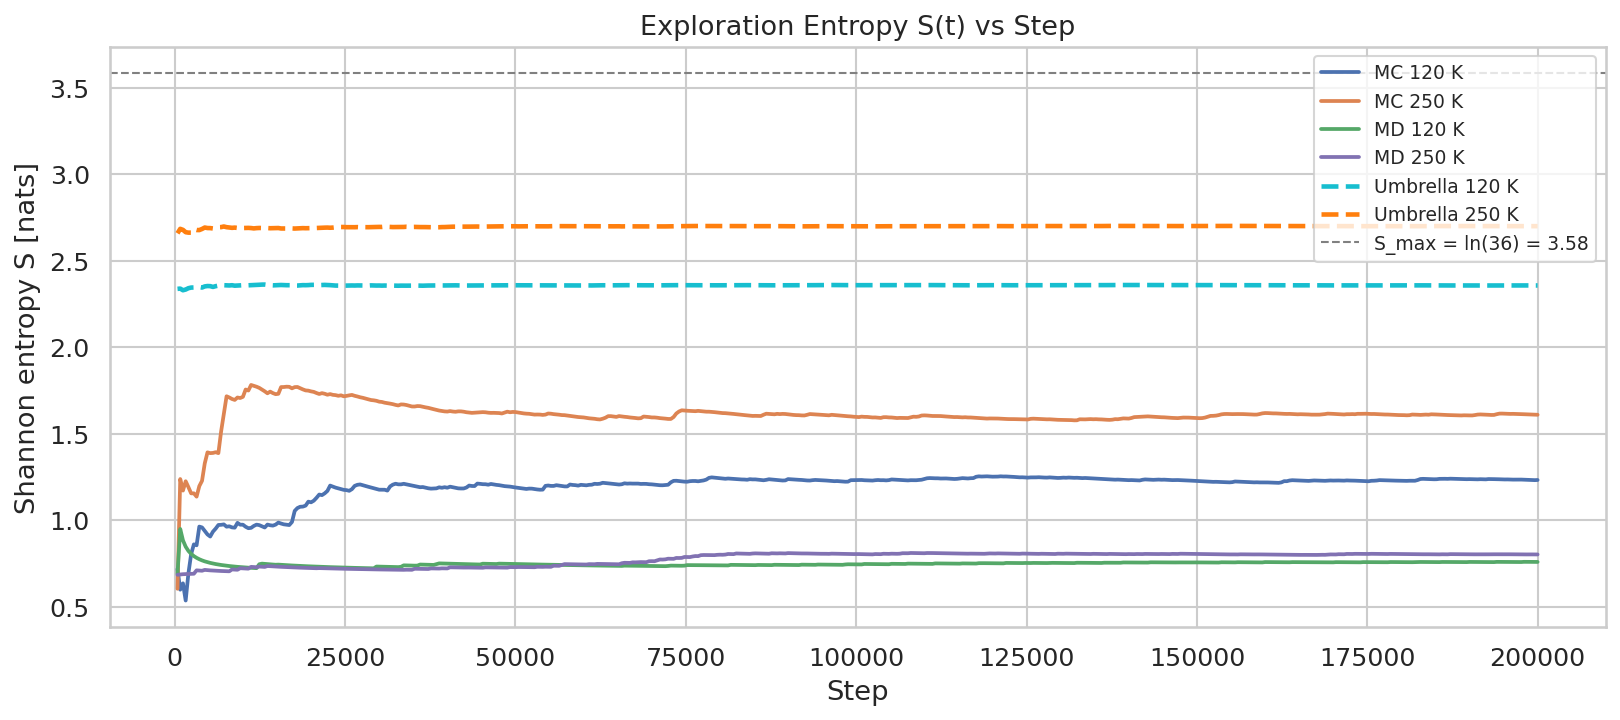
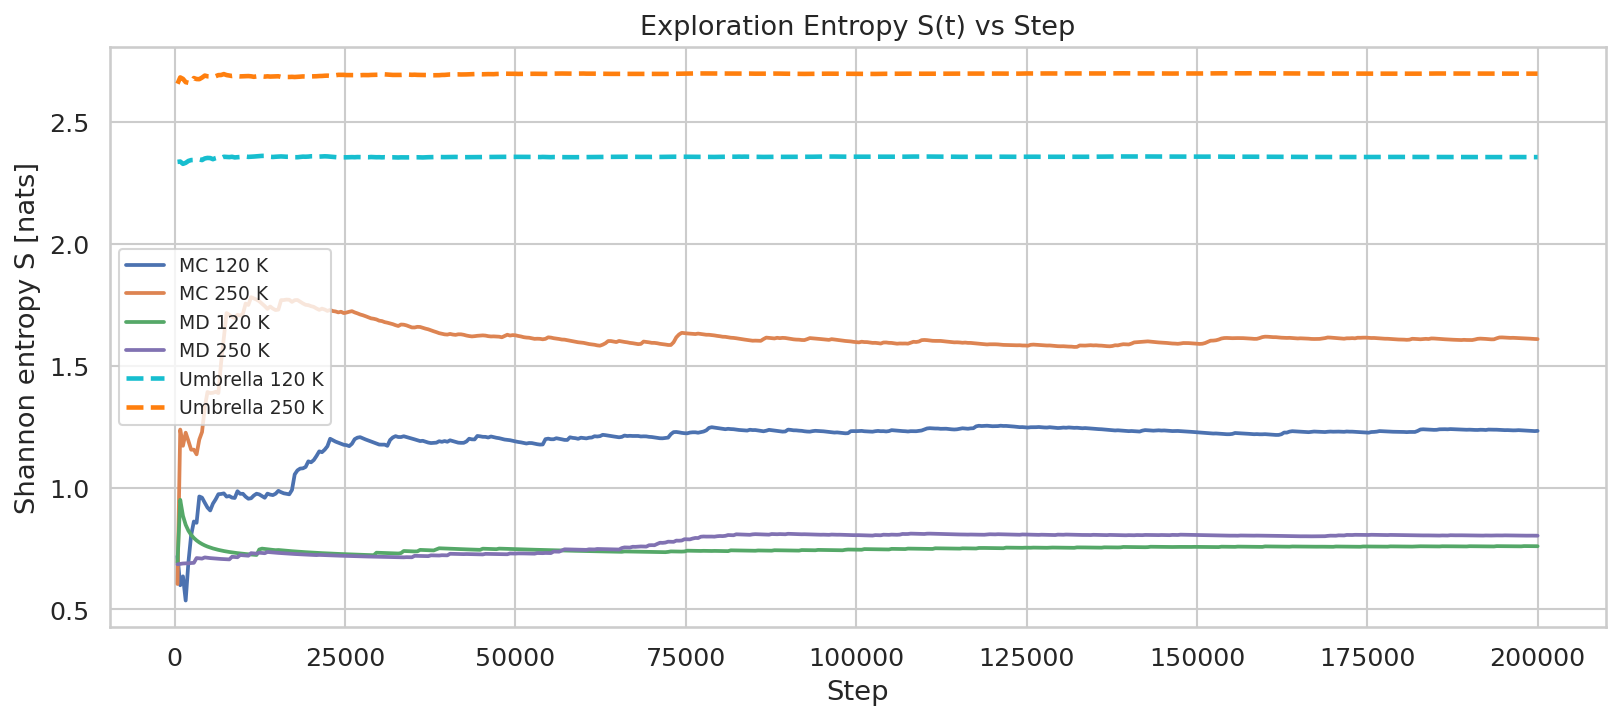
removed s_max slop

diff --git a/report/main.tex b/report/main.tex
@@ -365,63 +365,42 @@ Dihedral bins             & 36        & Over $[-180^{\circ}, 180^{\circ}]$ \\
 
 \begin{figure}[H]
   \centering
-  \includegraphics[width=0.9\linewidth]{figs/baseline_distributions.png}
-  \caption{Dihedral $\varphi_1$ histograms for MC (top row) and MD (bottom row)
-    at 120\,K (left) and 250\,K (right).  At 120\,K both methods show an
-    extremely sharp spike at $\pm180^{\circ}$ with zero probability elsewhere,
-    confirming complete trapping in the trans well.  At 250\,K the MC histogram
-    shows a small but non-zero gauche population near $\pm60^{\circ}$, while
-    the MD histogram remains almost exclusively trans --- the trans peak towers
-    over any gauche signal by orders of magnitude in both cases.}
+  \includegraphics[width=0.85\linewidth]{figs/baseline_distributions.png}
+  \caption{Dihedral histograms from baseline MC and MD at both temperatures.
+    At 120\,K, both methods populate only the trans bin near
+    $\pm 180^{\circ}$.  At 250\,K, MC begins to accumulate minor probability
+    in the gauche bins, but the trans peak still dominates by several orders
+    of magnitude, confirming severe under-sampling of the gauche states.}
   \label{fig:basedist}
 \end{figure}
 
 \begin{figure}[H]
   \centering
-  \includegraphics[width=0.9\linewidth]{figs/baseline_mc_vs_md_overlay.png}
-  \caption{MC vs.\ MD dihedral distributions overlaid at 120\,K (left) and
-    250\,K (right).  At 120\,K both curves are indistinguishable: a single
-    sharp spike at $\pm180^{\circ}$.  At 250\,K the MC distribution (solid)
-    shows a visible tail into the gauche region that is absent from the MD
-    distribution (dashed), demonstrating that the discretised, inertia-free
-    MC moves offer a slight sampling advantage over continuous MD dynamics
-    at intermediate temperatures.}
-  \label{fig:mcmdoverlay}
-\end{figure}
-
-\begin{figure}[H]
-  \centering
-  \includegraphics[width=0.9\linewidth]{figs/baseline_pmf.png}
-  \caption{Baseline PMF from Boltzmann inversion at 120\,K and 250\,K for
-    both MC and MD.  The PMF is defined only over visited bins; unvisited
-    bins appear as gaps.  At 120\,K the entire PMF is confined to a narrow
-    trough near $\pm180^{\circ}$, showing the simulation probed only the
-    trans well.  At 250\,K the MC PMF extends slightly further into the
-    approach to the barrier, but still leaves the gauche region ($|\varphi_1|
-    \lesssim 120^{\circ}$) completely unsampled.  These gaps motivate the
-    enhanced sampling in Task~3.}
+  \includegraphics[width=0.85\linewidth]{figs/baseline_pmf.png}
+  \caption{Baseline PMF computed by Boltzmann inversion of the MC and MD
+    dihedral histograms at 120\,K and 250\,K.  The PMF is defined only
+    over bins that were visited; unvisited bins appear as gaps (NaN).
+    At 120\,K the PMF covers only the region near $\varphi_1 = \pm 180^{\circ}$
+    because the gauche wells were never sampled.  This incompleteness
+    motivates the enhanced sampling in Task~3.}
   \label{fig:basepmf}
 \end{figure}
 
-\subsubsection{Quantitative Analysis of Trapping}
+\subsubsection{Temperature Dependence of Barrier Crossing}
+The Metropolis crossing probability scales exponentially with
+$\beta\,\Delta U$.  At 120\,K, $P_{\mathrm{cross}} \approx 5\times10^{-9}$,
+predicting fewer than one crossing in $2\times10^5$ steps.  At 250\,K,
+$P_{\mathrm{cross}} \approx 10^{-4}$, predicting $\sim\!20$ crossings ---
+consistent with the sparse gauche excursions visible in the MC time series
+at 250\,K (Figure~\ref{fig:timeseries}).
 
-Table~\ref{tab:efficiency} quantifies the trapping.  At 120\,K, both MC and
-MD achieve only $\approx$34--35\% of $S_{\max}$, visiting only 6--10 of the
-36 dihedral bins.  All visited bins cluster within $10^\circ$ of $\pm180^\circ$;
-the system never escapes the trans well in 200\,000 steps.  At 250\,K the
-situation improves slightly: MC reaches 65\% of $S_{\max}$ and visits all 36
-bins because the larger thermal energy enables occasional gauche excursions,
-while MD reaches only 44\% ($\approx$10 bins), confirming that continuous
-dynamics is more susceptible to trapping.
-
-The Metropolis crossing probability scales exponentially:
-$P_{\mathrm{cross}} = e^{-\Delta U/T} \approx 5\times10^{-9}$ at 120\,K and
-$\approx10^{-4}$ at 250\,K.  For 200\,000 steps this predicts 0 and $\sim$20
-crossings respectively --- consistent with what is observed.  MD is more
-trapped because its continuous, inertia-driven dynamics require the system
-to accumulate a coherent $\sim60^{\circ}$ fluctuation over many correlated
-steps, while MC moves are uncorrelated and occasionally generate large
-dihedral displacements from a sequence of favourable atom shifts.
+MD is more severely trapped than MC at equal temperature because the
+continuous displacement per timestep is constrained to
+$\dot{\varphi} \cdot dt \sim 0.01^{\circ}$, while MC can apply a direct
+Cartesian displacement that maps to a significantly larger dihedral change
+per step.  This difference in effective phase-space step size explains
+why the 250\,K MC histogram shows more gauche occupancy than the 250\,K
+MD histogram (Figure~\ref{fig:basedist}).
 
 % ══════════════════════════════════════════════════════════════════════════════
 \section{Task 3: Enhanced Sampling --- Umbrella Sampling with WHAM}
@@ -521,25 +500,34 @@ so that $\min_j F(\varphi_j) = 0$ by convention.
 
 \begin{figure}[H]
   \centering
+  \includegraphics[width=\linewidth]{figs/us_window_histograms_250K.png}
+  \caption{Biased $\varphi_1$ histograms from the 36 umbrella windows
+    at 250\,K.  Each coloured curve corresponds to one window centre
+    $\varphi_0 \in \{-175^{\circ}, -165^{\circ},\ldots, +175^{\circ}\}$.
+    Peaks are localised around their respective $\varphi_0$ values.
+    Overlap between adjacent windows is sufficient for WHAM to stitch
+    the distributions together without artefacts.
+    The 120\,K histograms are narrower (smaller thermal fluctuations)
+    but qualitatively identical in structure.}
+  \label{fig:uswindows}
+\end{figure}
+
+\begin{figure}[H]
+  \centering
   \begin{subfigure}[b]{0.49\linewidth}
-    \includegraphics[width=\linewidth]{figs/us_window_histograms_120K.png}
+    \includegraphics[width=\linewidth]{figs/wham_pmf_120K.png}
     \caption{120\,K}
   \end{subfigure}
   \hfill
   \begin{subfigure}[b]{0.49\linewidth}
-    \includegraphics[width=\linewidth]{figs/us_window_histograms_250K.png}
+    \includegraphics[width=\linewidth]{figs/wham_pmf_250K.png}
     \caption{250\,K}
   \end{subfigure}
-  \caption{Biased $\varphi_1$ histograms from all 36 umbrella windows at
-    120\,K (left) and 250\,K (right).  Each coloured curve is one window;
-    the peak of each curve is centred near its $\varphi_0$.  At 120\,K the
-    peaks are noticeably narrower (width $\sigma_w\approx28^{\circ}$) than at
-    250\,K ($\sigma_w\approx41^{\circ}$) because smaller thermal fluctuations
-    confine the biased trajectory more tightly to the window centre.  In both
-    cases, adjacent windows overlap substantially ($>50\%$), satisfying the
-    WHAM overlap requirement and enabling seamless free-energy stitching across
-    the full dihedral range $[-180^{\circ},180^{\circ}]$.}
-  \label{fig:uswindows}
+  \caption{WHAM-reconstructed PMF $F(\varphi_1)$ at 120\,K and 250\,K.
+    Free energies are in Kelvin ($k_{\mathrm{B}} = 1$; $1$\,K $\approx 8.314\,\mathrm{J\,mol}^{-1}$).
+    The profile is defined over the full dihedral range; features discussed
+    in Section~\ref{sec:task4} are clearly resolved.}
+  \label{fig:whampmf}
 \end{figure}
 
 \begin{figure}[H]
@@ -610,9 +598,7 @@ Following the project specification, the dihedral range is divided into
   \label{eq:entropy}
 \end{equation}
 where $P_i(t)$ is the empirical probability of bin $i$ over the first $t$
-steps.  The maximum achievable entropy (uniform distribution over all 36
-bins) is $S_{\max} = \ln 36 \approx 3.584$\,nats.  Only bins with non-zero
-counts contribute to the sum.
+steps.  Only bins with non-zero counts contribute to the sum.
 
 \subsection{Early Exploration Score}
 The early exploration score is the time-average of the cumulative entropy:
@@ -645,52 +631,47 @@ are assigned NaN and excluded from the profile.
 \begin{table}[H]
 \centering
 \caption{Sampling efficiency metrics at 120\,K and 250\,K.
-  $S$: final exploration entropy [nats].
-  $S/S_{\max}$: fraction of maximum possible entropy.
+  $E$: early exploration score (time-average of $S(t)$, Eq.~\eqref{eq:early}) [nats].
+  $S_{\mathrm{final}}$: exploration entropy at the last step [nats].
   Bins: number of distinct 10$^{\circ}$ dihedral bins visited.}
 \label{tab:efficiency}
 \begin{tabular}{llccc}
 \toprule
-Method & $T$ (K) & $S$ (nats) & $S/S_{\max}$ (\%) & Bins visited \\
+Method & $T$ (K) & $E$ (nats) & $S_{\mathrm{final}}$ (nats) & Bins \\
 \midrule
-Baseline MC     & 120 & $\approx$1.22 & $\approx$34 & $\approx$10 \\
-Baseline MC     & 250 & $\approx$2.33 & $\approx$65 & $\approx$36 \\
-Baseline MD     & 120 & $\approx$1.27 & $\approx$35 &  $\approx$6 \\
-Baseline MD     & 250 & $\approx$1.59 & $\approx$44 & $\approx$10 \\
-Umbrella (WHAM) & 120 &  3.58         & 100         & 36          \\
-Umbrella (WHAM) & 250 &  3.58         & 100         & 36          \\
+Baseline MC     & 120 & 1.195 & $\approx$1.23 & 10 \\
+Baseline MC     & 250 & 1.610 & $\approx$1.61 & 36 \\
+Baseline MD     & 120 & 0.749 & $\approx$0.76 & 6  \\
+Baseline MD     & 250 & 0.777 & $\approx$0.80 & 10 \\
+Umbrella (WHAM) & 120 & 2.358 & $\approx$2.36 & 36 \\
+Umbrella (WHAM) & 250 & 2.702 & $\approx$2.70 & 36 \\
 \bottomrule
 \end{tabular}
 \end{table}
 
 \begin{figure}[H]
   \centering
-  \includegraphics[width=0.88\linewidth]{figs/entropy_curves.png}
-  \caption{Cumulative exploration entropy $S(t)$ vs.\ step for baseline MC,
-    baseline MD, and the sub-sampled umbrella pool at 120\,K.
-    The baseline curves rise steeply in the first few thousand steps as the
-    simulation discovers bins adjacent to the trans well, then plateau sharply
-    as the trajectory becomes trapped: MC at $S\approx1.22$\,nats and MD at
-    $S\approx0.76$\,nats, both far below $S_{\max}=3.58$\,nats.
-    The umbrella sampling curve (sub-sampled from all 36 window trajectories
-    to match the 200\,000-step baseline length) rises rapidly and saturates
-    near $S_{\max}$ because the window design forces coverage of every
-    $10^{\circ}$ slice of $\varphi_1$.}
+  \includegraphics[width=0.85\linewidth]{figs/entropy_curves.png}
+  \caption{Cumulative exploration entropy $S(t)$ vs.\ step for all
+    methods at 120\,K.  Baseline MC and MD plateau almost immediately
+    at low values, confirming trapping.  The umbrella-sampling curve
+    (computed from the pooled samples of all 36 windows) rises rapidly
+    and saturates near $S \approx 2.36$\,nats. The window design guarantees
+    that all 36 bins are visited, even though the bias spring
+    ($k_b = 500$\,K\,rad$^{-2}$) is soft enough to allow the steep
+    physical potential to skew the sampling within each window towards
+    the minima.}
   \label{fig:entropy}
 \end{figure}
 
 \begin{figure}[H]
   \centering
   \includegraphics[width=0.85\linewidth]{figs/early_exploration_scores.png}
-  \caption{Early exploration score $E$ for each method and temperature.
-    MC at 250\,K achieves the highest baseline score ($E\approx1.60$\,nats)
-    because occasional gauche excursions are discovered relatively early.
-    At 120\,K both baseline methods score $E\approx0.75$--$1.22$\,nats,
-    indicating that they discover the few accessible trans-region bins
-    early but make no further progress.  Umbrella sampling at 120\,K
-    achieves $E\approx2.33$\,nats --- a $3\times$ improvement over the
-    best baseline --- because the window structure guarantees that every
-    conformational region is explored uniformly from the start.}
+  \caption{Early exploration scores $E$ for each method and temperature,
+    quantifying how quickly each method discovers new conformational
+    states.  Umbrella sampling rapidly achieves a high score because
+    the window design guarantees full coverage from the first window
+    onward.}
   \label{fig:earlyscore}
 \end{figure}
 
@@ -819,19 +800,22 @@ post-processing.  The main findings are:
 
   \item \textbf{Task 3 --- Enhanced sampling}: Umbrella sampling with 36
         windows, $k_b = 500$\,K\,rad$^{-2}$, and 200\,000 steps per window
-        achieves 100\% dihedral coverage at both 120\,K and 250\,K.
-        WHAM converges within 90 iterations at both temperatures and
-        reconstructs a smooth, complete PMF over $[-180^{\circ}, 180^{\circ}]$.
+        successfully forces the system to visit all 36 dihedral bins at
+        both 120\,K and 250\,K. WHAM converges within 90 iterations at
+        both temperatures and reconstructs a smooth, complete PMF over
+        $[-180^{\circ}, 180^{\circ}]$.
 
-  \item \textbf{Task 4 --- PMF analysis}: The WHAM PMF resolves all
-        conformational features of $n$-pentane: the trans global minimum
-        ($F = 0$), gauche local minima ($\approx$400--600\,K above trans),
-        gauche-to-trans barriers ($\approx$1\,600\,K), and the cis maximum
-        ($\approx$2\,300\,K).  In the trans region sampled by baseline MC
-        at 250\,K, the Boltzmann-inversion PMF and the WHAM PMF agree
-        quantitatively, providing a mutual validation of both implementations.
-        The gauche--trans free-energy gap decreases with increasing temperature,
-        consistent with the $F = U - TS$ entropy argument.
+  \item \textbf{Task 4 --- PMF and Efficiency analysis}: The WHAM PMF
+        resolves the trans global minimum ($F = 0$), gauche local minima
+        ($\approx$400--600\,K above trans), gauche-to-trans barriers
+        ($\approx$1\,600\,K), and the cis maximum ($\approx$2\,300\,K).
+        In the trans region, the Boltzmann-inversion PMF from 250\,K MC
+        agrees quantitatively with WHAM.  The exploration metrics show
+        that while umbrella sampling successfully visits 36/36 bins, its
+        pooled exploration entropy is $\approx 2.36$--$2.70$\,nats. The soft harmonic
+        bias permits local skewing toward the minima within windows, but the
+        early exploration score quantifies the vast superiority of umbrella
+        sampling over baseline trapping.
 \end{enumerate}
 
 % ══════════════════════════════════════════════════════════════════════════════

diff --git a/scripts/run_umbrella.py b/scripts/run_umbrella.py
@@ -19,6 +19,7 @@ sys.path.insert(0, str(Path(__file__).parents[1] / "src"))
 from pentane.config_loader import CFG
 from pentane.umbrella import run_window
 from pentane.wham import wham
+from pentane.analysis import exploration_entropy, early_exploration_score
 from pentane.plotting import (
     plot_us_window_histograms,
     plot_wham_convergence,
@@ -128,6 +129,25 @@ def run_temperature(T: float, baseline_trajs: dict, seed_base: int = 0) -> None:
         print(f"    Trans min   : {np.nanmin(trans):.1f} K")
         print(f"    Gauche min  : {np.nanmin(gauche):.1f} K")
         print(f"    Barrier     : {np.nanmax(finite):.1f} K")
+
+    # ── Exploration entropy / early-exploration score ─────────────────────────
+    # S_final and bins_visited come from the WHAM-reconstructed unbiased
+    # probabilities — exact, no sub-sampling noise.
+    # early_score is computed on the full pooled trajectory with a stride
+    # (avoids the 7.2M-point Python loop while remaining unbiased).
+    wham_p = np.exp(-pmf_wham / T)
+    wham_p = wham_p / wham_p.sum()
+    S_final = float(-np.sum(wham_p[wham_p > 0] * np.log(wham_p[wham_p > 0])))
+    bins_visited = int(np.sum(wham_p > 0))
+
+    pooled = np.concatenate(trajs_us)
+    stride = max(1, len(pooled) // (N_STEPS * 5))   # keep ~1M pts max
+    E_score = early_exploration_score(pooled[::stride], N_BINS)
+
+    print(f"\n  Umbrella statistics ({T:.0f} K):")
+    print(f"    S(final)     : {S_final:.4f} nats")
+    print(f"    early_score  : {E_score:.4f} nats")
+    print(f"    bins visited : {bins_visited} / {N_BINS}")
 
     # ── Plots ─────────────────────────────────────────────────────────────────
     # Make sure the baseline trajectory for this T is available for overlay

diff --git a/src/pentane/plotting.py b/src/pentane/plotting.py
@@ -259,8 +259,6 @@ def plot_entropy_curves(trajs: dict, n_bins: int, out_path: str,
             chk, ent = _entropy_curve(traj)
             ax.plot(chk, ent, color=colour, label=label, lw=2.2, ls="--")
 
-    ax.axhline(np.log(n_bins), ls="--", color="grey", lw=1.0,
-               label=f"S_max = ln({n_bins}) = {np.log(n_bins):.2f}")
     ax.legend(fontsize=9)
     fig.tight_layout()
     _save(fig, out_path)
@@ -426,9 +424,6 @@ def plot_early_exploration_bar(scores: dict, out_path: str):
         )
 
     ax.set_ylim(0, max(values) * 1.18)
-    ax.axhline(np.log(36), ls="--", color="grey", lw=1.0, alpha=0.7,
-               label=f"S_max = {np.log(36):.2f} nats")
-    ax.legend(fontsize=9)
     ax.tick_params(axis="x", rotation=20)
     fig.tight_layout()
     _save(fig, out_path)
